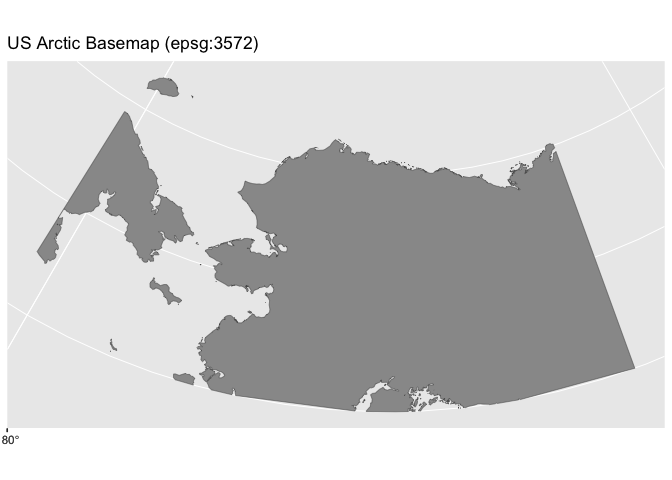
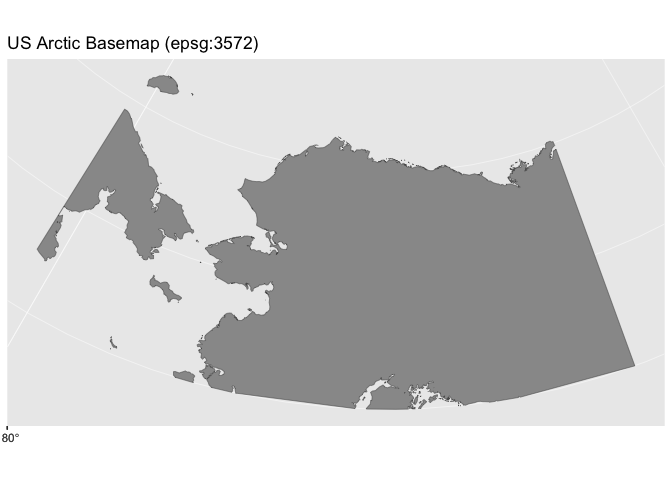
FINAL UPDATES TO GSHHG 2.3.7

diff --git a/README.md b/README.md
@@ -6,7 +6,7 @@ nPacMaps: an R package for North Pacific basemap data
 About
 -----
 
-Creating maps for the North Pacific can be difficult, frustrating, and confusing. The main source of this frustration is the 180 longitude line and the limited examples that exist for guidance. This R package relies on data from the [Global Self-consistent, Hierarchical, High-resolution Geography (GSHHG) Database](https://www.soest.hawaii.edu/pwessel/gshhg/).
+Creating maps for the North Pacific can be difficult, frustrating, and confusing. The main source of this frustration is the 180 longitude line and the limited examples that exist for guidance. This R package relies on data from the [Global Self-consistent, Hierarchical, High-resolution Geography (GSHHG) Database](https://www.ngdc.noaa.gov/mgg/shorelines/data/gshhg/latest/).
 
 The main objective is to provide a simple interface for quickly loading basemap polygon land data for the North Pacific Region that can be used in the ggplot2 graphical ecosystem.
 
@@ -88,7 +88,7 @@ library(nPacMaps)
 #> it under certain conditions, as outlined in the above file.
 #> 
 #> A complete user guide 'PBSmapping-UG.pdf' is located at 
-#> /Users/josh.london/Library/R/3.4/library/PBSmapping/doc/PBSmapping-UG.pdf
+#> /Users/josh.london/Library/R/3.5/library/PBSmapping/doc/PBSmapping-UG.pdf
 #> 
 #> Packaged on 2017-06-28
 #> Pacific Biological Station, Nanaimo
@@ -102,15 +102,17 @@ library(nPacMaps)
 #> Loading required package: sp
 #> Checking rgeos availability: TRUE
 library(sf)
-#> Linking to GEOS 3.6.2, GDAL 2.2.3, proj.4 4.9.3
+#> Linking to GEOS 3.6.2, GDAL 2.2.4, proj.4 5.0.1
 
 npac_base <- nPacMaps::npac()
 #> importGSHHS status:
-#> --> Pass 1: complete: 15611 bounding boxes within limits.
+#> --> Pass 1: complete: 15609 bounding boxes within limits.
 #> --> Pass 2: complete.
 #> --> Clipping...
 #> Warning in refocusWorld(as.PolySet(as.data.frame(xres), projection = "LL"), : Removed duplicates of following polygons (Antarctica?): 0, 1, 15
 #> importGSHHS: input xlim was (0, 360) and the longitude range of the extracted data is (0, 359.532917).
+#> Warning in seq.default(along = outPolygons): partial argument match of
+#> 'along' to 'along.with'
 #> Warning in extract_gshhg(xlims = xlims, ylims = ylims, resolution =
 #> resolution, : nPacMaps now returns a polygon that has been simplified
 #> via the rmapshaper package. This should improve plotting performance. Set
@@ -139,6 +141,8 @@ calcur_base <- nPacMaps::calcur()
 #> --> Clipping...
 #> Warning in refocusWorld(as.PolySet(as.data.frame(xres), projection = "LL"), : Removed duplicates of following polygons (Antarctica?): 0, 1, 15
 #> importGSHHS: input xlim was (0, 360) and the longitude range of the extracted data is (0, 359.532917).
+#> Warning in seq.default(along = outPolygons): partial argument match of
+#> 'along' to 'along.with'
 #> Warning in extract_gshhg(xlims = xlims, ylims = ylims, resolution =
 #> resolution, : nPacMaps now returns a polygon that has been simplified
 #> via the rmapshaper package. This should improve plotting performance. Set
@@ -162,11 +166,13 @@ library(sf)
 
 bering_base <- nPacMaps::bering()
 #> importGSHHS status:
-#> --> Pass 1: complete: 15491 bounding boxes within limits.
+#> --> Pass 1: complete: 15493 bounding boxes within limits.
 #> --> Pass 2: complete.
 #> --> Clipping...
 #> Warning in refocusWorld(as.PolySet(as.data.frame(xres), projection = "LL"), : Removed duplicates of following polygons (Antarctica?): 0, 1, 15
 #> importGSHHS: input xlim was (0, 360) and the longitude range of the extracted data is (0, 359.532917).
+#> Warning in seq.default(along = outPolygons): partial argument match of
+#> 'along' to 'along.with'
 #> Warning in extract_gshhg(xlims = xlims, ylims = ylims, resolution =
 #> resolution, : nPacMaps now returns a polygon that has been simplified
 #> via the rmapshaper package. This should improve plotting performance. Set
@@ -190,11 +196,13 @@ library(sf)
 
 us_arctic_base <- nPacMaps::us_arctic()
 #> importGSHHS status:
-#> --> Pass 1: complete: 9504 bounding boxes within limits.
+#> --> Pass 1: complete: 9506 bounding boxes within limits.
 #> --> Pass 2: complete.
 #> --> Clipping...
 #> Warning in refocusWorld(as.PolySet(as.data.frame(xres), projection = "LL"), : Removed duplicates of following polygons (Antarctica?): 0
 #> importGSHHS: input xlim was (0, 360) and the longitude range of the extracted data is (4.585778, 359.275833).
+#> Warning in seq.default(along = outPolygons): partial argument match of
+#> 'along' to 'along.with'
 #> Warning in extract_gshhg(xlims = xlims, ylims = ylims, resolution =
 #> resolution, : nPacMaps now returns a polygon that has been simplified
 #> via the rmapshaper package. This should improve plotting performance. Set
@@ -218,11 +226,13 @@ library(sf)
 
 ak_base <- nPacMaps::alaska()
 #> importGSHHS status:
-#> --> Pass 1: complete: 11544 bounding boxes within limits.
+#> --> Pass 1: complete: 11546 bounding boxes within limits.
 #> --> Pass 2: complete.
 #> --> Clipping...
 #> Warning in refocusWorld(as.PolySet(as.data.frame(xres), projection = "LL"), : Removed duplicates of following polygons (Antarctica?): 0, 1, 15
 #> importGSHHS: input xlim was (0, 360) and the longitude range of the extracted data is (0, 359.532917).
+#> Warning in seq.default(along = outPolygons): partial argument match of
+#> 'along' to 'along.with'
 #> Warning in extract_gshhg(xlims = xlims, ylims = ylims, resolution =
 #> resolution, : nPacMaps now returns a polygon that has been simplified
 #> via the rmapshaper package. This should improve plotting performance. Set
@@ -243,12 +253,15 @@ We can also zoom in on a particular region
 library(ggplot2)
 library(nPacMaps)
 library(crawl)
-#> crawl 2.1.2 (2017-04-27) 
+#> crawl 2.1.1 (2017-04-21) 
 #>  Demos and documentation can be found at our new GitHub repository:
 #>  https://dsjohnson.github.io/crawl_examples/
 library(dplyr)
 #> 
 #> Attaching package: 'dplyr'
+#> The following object is masked from 'package:ggplot2':
+#> 
+#>     vars
 #> The following objects are masked from 'package:stats':
 #> 
 #>     filter, lag
@@ -278,6 +291,8 @@ ak_base <- nPacMaps::alaska(resolution = "f")
 #> --> Pass 2: complete.
 #> --> Clipping...
 #> importGSHHS: input xlim was (175, 230) and the longitude range of the extracted data is (175, 230).
+#> Warning in seq.default(along = outPolygons): partial argument match of
+#> 'along' to 'along.with'
 #> Warning in extract_gshhg(xlims = xlims, ylims = ylims, resolution =
 #> resolution, : nPacMaps now returns a polygon that has been simplified
 #> via the rmapshaper package. This should improve plotting performance. Set
